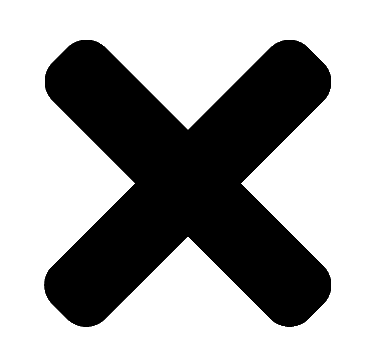
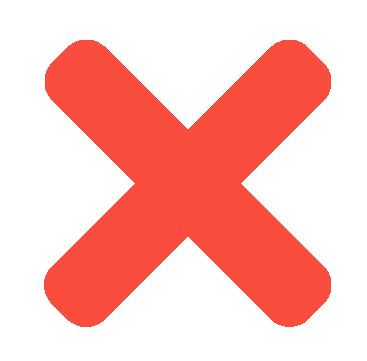
new exit button

diff --git a/css/style.css b/css/style.css
@@ -30,7 +30,7 @@ div h1 {
 
 div p {
   margin-top: 0px;
-  margin-botton: 20px;
+  font-size: 18px
 }
 
 button.start {
@@ -45,6 +45,10 @@ border: none;
 margin: 40px;
 }
 
+button:focus {
+  outline:0;
+}
+
 div.randomSpots {
   border-radius: 50%;
   position: absolute;
@@ -54,7 +58,7 @@ p#score {
   display: none;
   position: absolute;
   left: 50%;
-  top: 50%;
+  top: 40%;
   margin: 0 auto;
   transform: translate(-50%,-50%);
   text-align: center;
@@ -62,16 +66,23 @@ p#score {
   font-size: 300px
 }
 
-img#exit {
-  height: 50px;
-  width: 50px;
+button#exit {
+  width: 100px;
+  height: 100px;
+  border-radius: 50%;
   display: none;
   position: absolute;
   left: 50%;
-  top: 90%;
+  top: 75%;
   transform: translate(-50%,-50%);
+  background-color: rgb(251, 77, 61);
   text-align: center;
+  font-family: 'Nunito', sans-serif;
+  color: #FDFDFD;
+  font-size: 25px;
+  border: none;
 }
+
 
 
 

diff --git a/index.html b/index.html
@@ -14,11 +14,12 @@
   <main>
     <div class="instructions">
       <h1>FADE</h1>
-      <p>When the game starts you'll be shown a colour. Try to remember it. Once the colour has gone spots will appear. Your task is to click as many spots of the colour you were shown before the spots fade away.</p>
+      <p>When the game starts you'll be shown a colour. Try to remember it. Once the colour has gone spots will appear. Your task is to click as many spots of the colour you were shown before the spots fade away.<br>Click the Start Spot to begin!</p>
       <button class="start">START</button>
     </div>
       <p id="score"></p>
-      <img src="images/ExitX.png" alt="EXIT" id="exit">
+      <button id="exit">EXIT</button>
+      <!-- <img src="images/ExitX.png" alt="EXIT" id="exit"> -->
   </main>
 </body>
 </html>

diff --git a/js/app.js b/js/app.js
@@ -114,9 +114,15 @@ Game.giveBackgroundColor = function() {
 
 Game.showInstructions = function() {
   $('.start').off('click');
+  $('.start').css({
+    'background-color': 'rgb(32, 163, 158)'
+  });
   this.instructions.fadeIn(3000);
 
   $('.start').on('click', function() {
+    $('.start').css({
+      'background-color': '#FDFDFD'
+    });
     Game.playing = true;
     Game.instructions.fadeOut(3000);
     setTimeout(function() {
